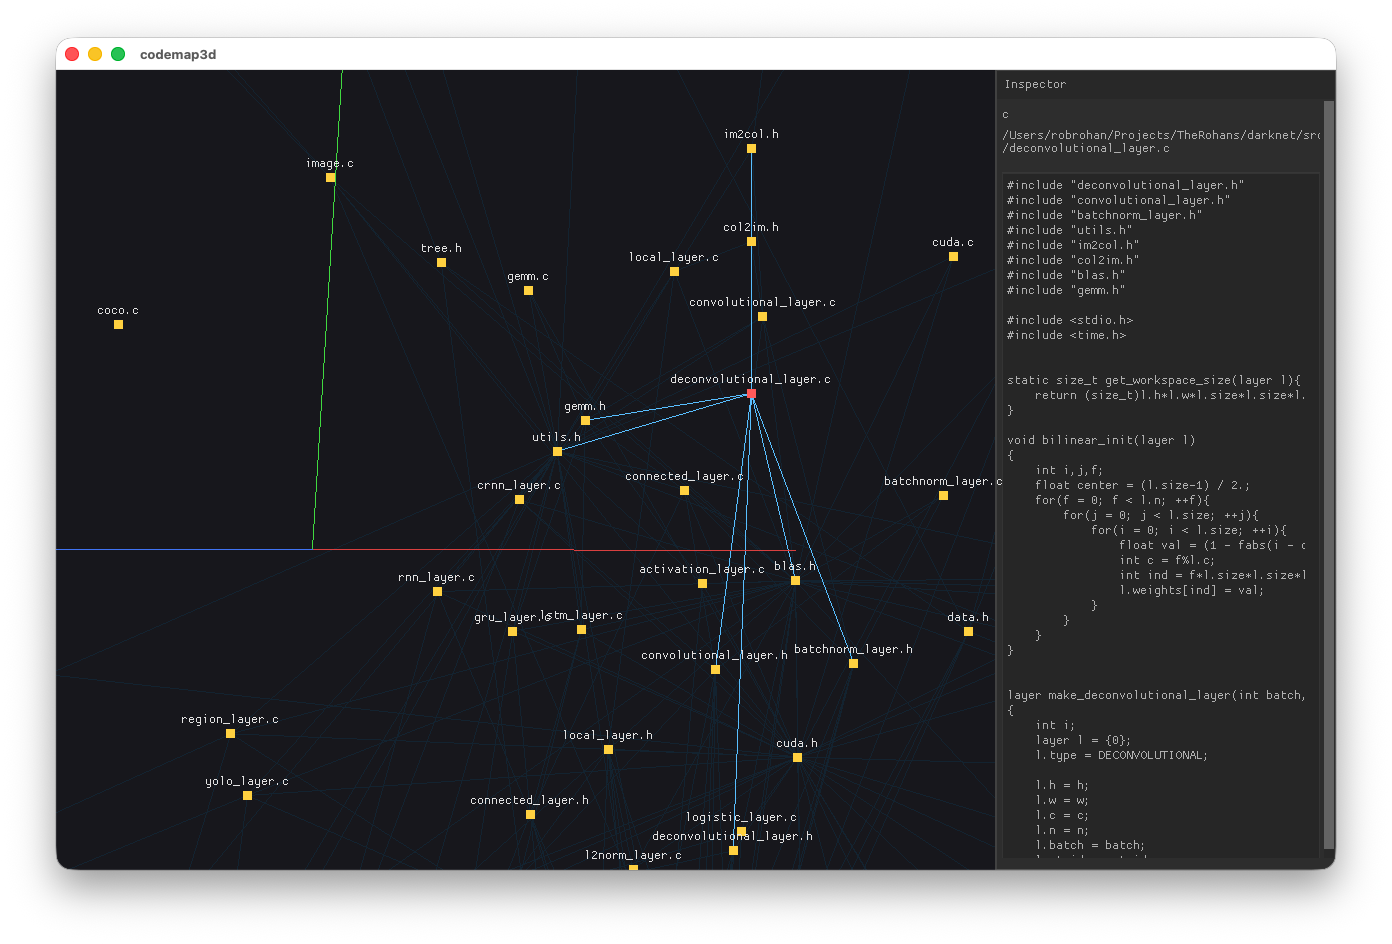
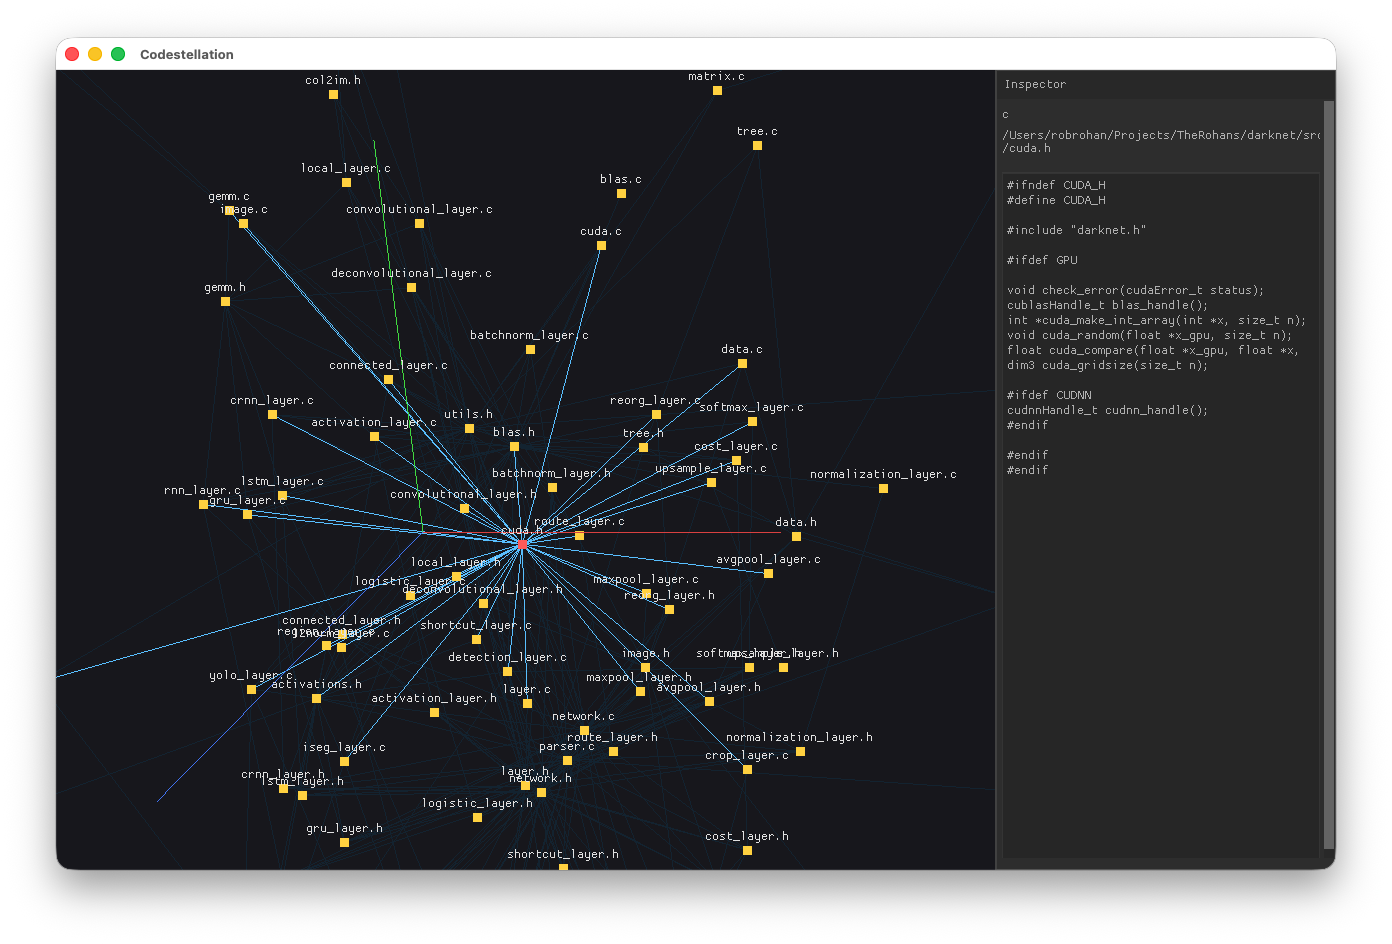
Making text a bit larger

diff --git a/vendor/nuklear/nuklear.h b/vendor/nuklear/nuklear.h
@@ -28272,6 +28272,13 @@ nk_do_edit(nk_flags *state, struct nk_command_buffer *out,
     area.h = bounds.h - (2.0f * style->padding.y + 2 * style->border);
     if (flags & NK_EDIT_MULTILINE)
         area.w = NK_MAX(0, area.w - style->scrollbar_size.x);
+    /* CODESTELLATION PATCH: reserve room for a horizontal scrollbar too
+     * (mirrors the vertical reservation above) -- see the matching
+     * nk_do_scrollbarh call further down, added because unwrapped
+     * multiline text has no other way to reach content past the right
+     * edge besides arrow-key cursor movement. */
+    if (flags & NK_EDIT_MULTILINE && !(flags & NK_EDIT_NO_HORIZONTAL_SCROLL))
+        area.h = NK_MAX(0, area.h - style->scrollbar_size.y);
     row_height = (flags & NK_EDIT_MULTILINE)? font->height + style->row_padding: area.h;
 
     /* calculate clipping rectangle */
@@ -28606,6 +28613,30 @@ nk_do_edit(nk_flags *state, struct nk_command_buffer *out,
                 if (is_hovered && in->mouse.scroll_delta.y) {
                     in->mouse.scroll_delta.y = 0;
                 }
+
+                /* CODESTELLATION PATCH: horizontal counterpart of the
+                 * vertical scrollbar above -- unwrapped long lines were
+                 * otherwise only reachable via arrow-key cursor movement.
+                 * area.h was already shrunk by scrollbar_size.y for this
+                 * up top, mirroring how area.w is shrunk for the vertical
+                 * one. nk_do_scrollbarh already handles wheel (via
+                 * scroll_delta.x), click-drag, and click-to-page. */
+                if (!(flags & NK_EDIT_NO_HORIZONTAL_SCROLL)) {
+                    struct nk_rect hscroll = area;
+                    hscroll.y = (bounds.y + bounds.h - style->border) - style->scrollbar_size.y;
+                    hscroll.h = style->scrollbar_size.y;
+
+                    scroll_offset = edit->scrollbar.x;
+                    scroll_step = hscroll.w * 0.10f;
+                    scroll_inc = hscroll.w * 0.01f;
+                    scroll_target = text_size.x;
+                    edit->scrollbar.x = nk_do_scrollbarh(&ws, out, hscroll, is_hovered,
+                            scroll_offset, scroll_target, scroll_step, scroll_inc,
+                            &style->scrollbar, in, font);
+                    if (is_hovered && in->mouse.scroll_delta.x) {
+                        in->mouse.scroll_delta.x = 0;
+                    }
+                }
             }
         }
 
@@ -28900,7 +28931,19 @@ nk_edit_buffer(struct nk_context *ctx, nk_flags flags,
 
     filter = (!filter) ? nk_filter_default: filter;
     prev_state = (unsigned char)edit->active;
-    in = (flags & NK_EDIT_READ_ONLY) ? 0: in;
+    /* CODESTELLATION PATCH: upstream unconditionally nulled `in` here for
+     * NK_EDIT_READ_ONLY, which made a read-only edit box fully
+     * non-interactive -- no click-to-position, no drag-select, no
+     * scrollbar, no keyboard navigation, no copy. nk_do_edit() below
+     * already handles NK_EDIT_READ_ONLY correctly on its own: it forces
+     * edit->mode = NK_TEXT_EDIT_MODE_VIEW, which nk_textedit_text (typed
+     * chars, tab), NK_KEY_BACKSPACE/NK_KEY_DEL, nk_textedit_cut, and
+     * nk_textedit_paste all check and no-op on. So keeping `in` live here
+     * still fully blocks mutation while restoring everything else -- a
+     * real read-only, scrollable, selectable text viewer. If nuklear.h
+     * is ever re-vendored from upstream, re-apply this (drop this
+     * comment block and the line below it, i.e. delete the `in = (flags
+     * & NK_EDIT_READ_ONLY) ? 0 : in;` reintroduced by the fresh copy). */
     ret_flags = nk_do_edit(&ctx->last_widget_state, &win->buffer, bounds, flags,
                     filter, edit, &style->edit, in, style->font);
 

diff --git a/src/render/labels.c b/src/render/labels.c
@@ -26,8 +26,18 @@ void labels_draw(struct nk_context *ctx, int window_width, int window_height, in
                               nk_style_item_color(nk_rgba(0, 0, 0, 0)));
     nk_style_push_vec2(ctx, &ctx->style.window.padding, nk_vec2(0, 0));
 
+    /* NK_WINDOW_BACKGROUND matters here beyond just draw order: without
+     * it, this full-screen window (created every frame, after the
+     * Inspector) claims ctx->end (nuklear's "topmost/focused" window)
+     * and never releases it -- being NK_WINDOW_NO_INPUT, it's skipped
+     * from the focus-stealing logic that would otherwise let Inspector
+     * reclaim the top slot on click. Any window that isn't ctx->end gets
+     * flagged NK_WINDOW_ROM, which is what silently killed all input
+     * (scroll, click-to-position, drag-select) to the Inspector's text
+     * box. NK_WINDOW_BACKGROUND exempts this window from that fight
+     * entirely and draws it behind other windows instead of in front. */
     if (nk_begin(ctx, "##labels", nk_rect(0, 0, (float)window_width, (float)window_height),
-                 NK_WINDOW_NO_SCROLLBAR | NK_WINDOW_NO_INPUT)) {
+                 NK_WINDOW_NO_SCROLLBAR | NK_WINDOW_NO_INPUT | NK_WINDOW_BACKGROUND)) {
         struct nk_command_buffer *canvas = nk_window_get_canvas(ctx);
         const struct nk_user_font *font = ctx->style.font;
 

diff --git a/src/render/ui_panel.c b/src/render/ui_panel.c
@@ -53,8 +53,15 @@ void ui_panel_draw(struct nk_context *ctx, int window_width, int window_height,
     load_file_if_needed(selected_path);
 
     float w = (float)UI_PANEL_WIDTH;
+    /* NK_WINDOW_NO_SCROLLBAR: the layout below sizes its rows to exactly
+     * fill the window (language + path labels, then an edit box sized to
+     * the remainder), but nuklear's own item spacing/padding pushes the
+     * laid-out content a few pixels past the window's rect, which was
+     * enough to trigger this window's own scrollbar alongside the edit
+     * box's internal one -- redundant since the edit box already scrolls
+     * its own content. */
     if (nk_begin(ctx, "Inspector", nk_rect((float)window_width - w, 0, w, (float)window_height),
-                 NK_WINDOW_BORDER | NK_WINDOW_TITLE)) {
+                 NK_WINDOW_BORDER | NK_WINDOW_TITLE | NK_WINDOW_NO_SCROLLBAR)) {
         if (selected_path) {
             nk_layout_row_dynamic(ctx, 20, 1);
             nk_label(ctx, selected_language ? selected_language : "", NK_TEXT_LEFT);

diff --git a/src/render/ui_panel.h b/src/render/ui_panel.h
@@ -8,7 +8,7 @@
  * opaque. */
 struct nk_context;
 
-#define UI_PANEL_WIDTH 340
+#define UI_PANEL_WIDTH 420
 
 /* Renders the fixed-width right-hand inspector: selected node's path and
  * language (if any) plus a read-only scrollable view of that file's
